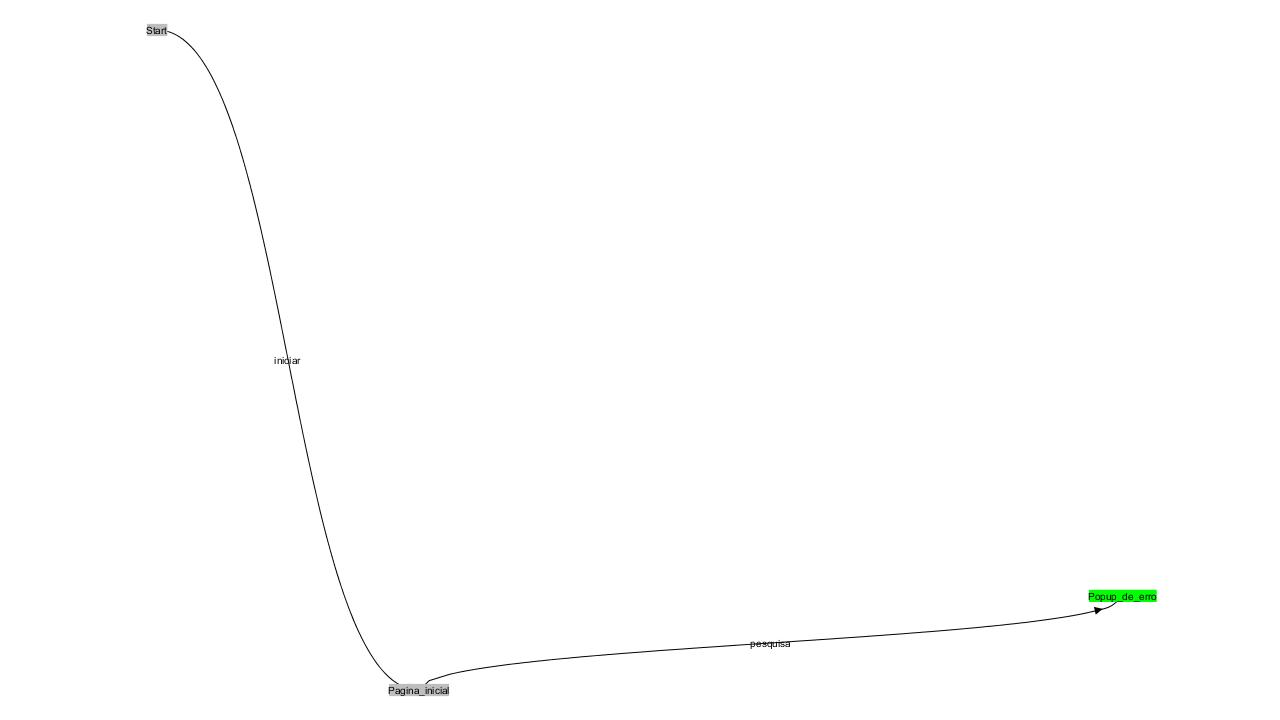
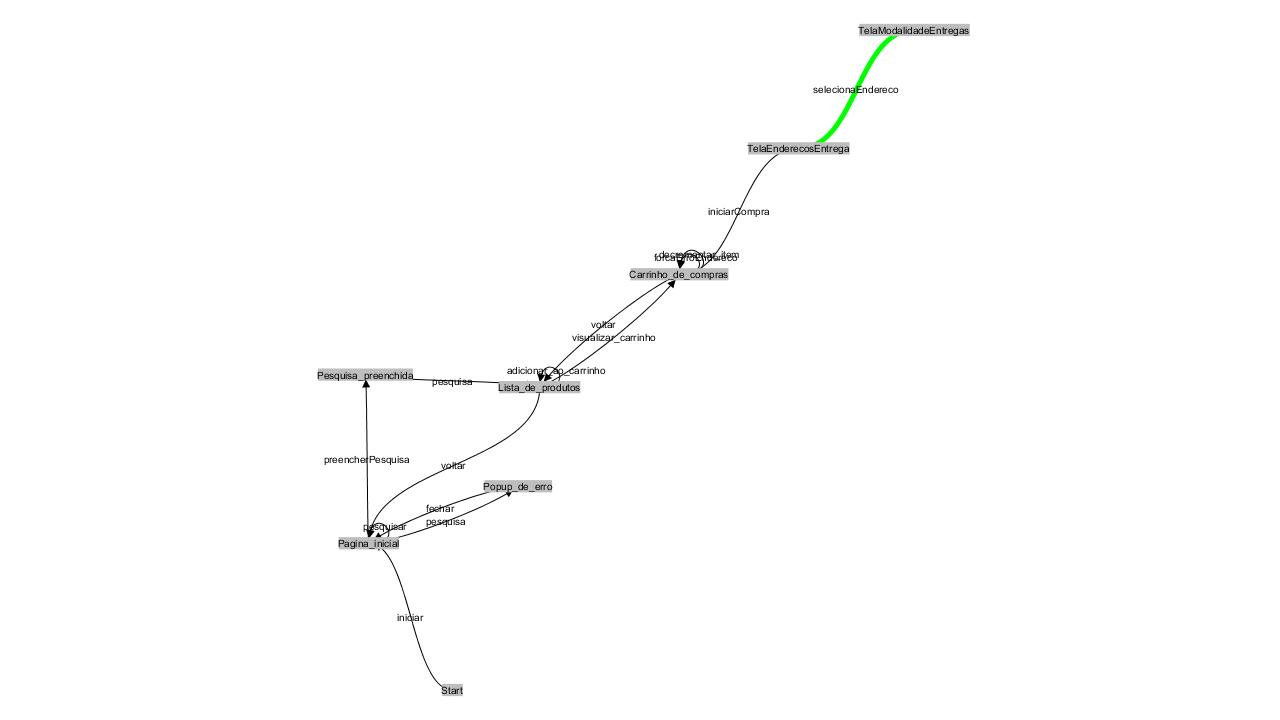
mais um pouco

diff --git a/src/main/java/br/com/unicamp/inf321/models/bookstore/BookstoreModel.java b/src/main/java/br/com/unicamp/inf321/models/bookstore/BookstoreModel.java
@@ -7,8 +7,10 @@ import java.util.Random;
 import org.assertj.core.api.AssertDelegateTarget;
 import org.graphwalker.java.annotation.GraphWalker;
 import org.openqa.selenium.By;
+import org.openqa.selenium.Dimension;
 import org.openqa.selenium.WebElement;
 import org.openqa.selenium.interactions.ClickAction;
+import org.openqa.selenium.interactions.touch.ScrollAction;
 import org.openqa.selenium.support.ui.ExpectedConditions;
 import org.openqa.selenium.support.ui.WebDriverWait;
 
@@ -40,84 +42,106 @@ public class BookstoreModel extends org.graphwalker.core.machine.ExecutionContex
 	@Override
 	public void iniciar() {	
 		driver.launchApp();	
+		wait.until(ExpectedConditions.elementToBeClickable(By.className("android.widget.Image")));
 	}
 
 	@Override
-	public void Pagina_inicial() {		
+	public void Pagina_inicial() {				
 	}
 
 	@Override
 	public void preencherPesquisa() {
-		String locator = "//*";
-		wait.until(ExpectedConditions.visibilityOfElementLocated(By.xpath(locator)));
-		
 		TouchAction touchAction = new TouchAction(driver);
-    	touchAction.tap(730, 298).perform();
+    	touchAction.tap(342, 372).perform();
 	}
 
 	@Override
 	public void Pesquisa_preenchida() {	
-		String locator = "//*";
-		wait.until(ExpectedConditions.visibilityOfElementLocated(By.xpath(locator)));
-		
 		TouchAction touchAction = new TouchAction(driver);
-		touchAction.tap(1723, 730).perform();
+		touchAction.tap(1727, 365).perform();
+	}
+
+	@Override
+	public void pesquisa() {	
+		TouchAction touchAction = new TouchAction(driver);
+    	touchAction.tap(342, 372).perform();
 	}
 
 	@Override
 	public void Popup_de_erro() {
-		
 		TouchAction touchAction = new TouchAction(driver);
-    	touchAction.tap(341, 1670).perform();
-    	
-		TouchAction touchAction2 = new TouchAction(driver);
-    	touchAction2.tap(353, 212).perform();
-	}
-
-	@Override
-	public void pesquisa() {
-		// TODO Auto-generated method stub
-		
+    	touchAction.tap(342, 372).perform();
 	}
 
 	@Override
 	public void Lista_de_produtos() {
 		TouchAction touchAction = new TouchAction(driver);
-    	touchAction.tap(1044, 1688).perform();
+    	touchAction.tap(238, 1033).perform();
 	}
 	
 	@Override
 	public void visualizar_carrinho() {
 		TouchAction touchAction = new TouchAction(driver);
-    	touchAction.tap(643, 895).perform();
+    	touchAction.tap(1246, 895).perform();
+	}
+
+	@Override
+	public void iniciarCompra() {
+		TouchAction touchAction = new TouchAction(driver);
+    	touchAction.tap(440, 904).perform();
+		
 	}
 
 	@Override
 	public void TelaEnderecosEntrega() {
 		TouchAction touchAction = new TouchAction(driver);
-    	touchAction.tap(1480, 899).perform();
+    	touchAction.tap(1250, 890).perform();
 	}
 
 	@Override
 	public void selecionaEndereco() {
-		// TODO Auto-generated method stub
+        new TouchAction(driver).press(0, 1000).waitAction(2000)
+            .moveTo(0, 100).release().perform().waitAction()
+            .tap(1625, 581).perform();
+	}
+
+	@Override
+	public void TelaModalidadeEntregas() {
+		TouchAction touchAction = new TouchAction(driver);
+    	touchAction.tap(200, 750).perform();
+	}
+
+	@Override
+	public void selecionaModalidade() {
+        new TouchAction(driver).press(0, 1000).waitAction(2000)
+        .moveTo(0, 100).release().perform().waitAction()
+        .tap(257, 432).perform();
+	}
+
+	@Override
+	public void Pgto_cartao_selecionado() {
 		
+	}
+
+	@Override
+	public void preencherDados() {
 	}
 
 	@Override
 	public void Dados_Preenchidos() {
-		// TODO Auto-generated method stub
-		
+		TouchAction touchAction = new TouchAction(driver);
+    	touchAction.tap(1517, 807).perform();
 	}
+
+	@Override
+	public void enviarDados() {
+		TouchAction touchAction = new TouchAction(driver);
+    	touchAction.tap(900, 805).perform();
+	}
+
 
 	@Override
 	public void enviarRetorno() {
-		// TODO Auto-generated method stub
-		
-	}
-
-	@Override
-	public void iniciarCompra() {
 		// TODO Auto-generated method stub
 		
 	}
@@ -153,12 +177,6 @@ public class BookstoreModel extends org.graphwalker.core.machine.ExecutionContex
 	}
 
 	@Override
-	public void preencherDados() {
-		// TODO Auto-generated method stub
-		
-	}
-
-	@Override
 	public void voltar() {
 		// TODO Auto-generated method stub
 		
@@ -177,19 +195,7 @@ public class BookstoreModel extends org.graphwalker.core.machine.ExecutionContex
 	}
 
 	@Override
-	public void Pgto_cartao_selecionado() {
-		// TODO Auto-generated method stub
-		
-	}
-
-	@Override
 	public void Pagamento_sucesso() {
-		// TODO Auto-generated method stub
-		
-	}
-
-	@Override
-	public void TelaModalidadeEntregas() {
 		// TODO Auto-generated method stub
 		
 	}
@@ -202,12 +208,6 @@ public class BookstoreModel extends org.graphwalker.core.machine.ExecutionContex
 
 	@Override
 	public void adicionar_ao_carrinho() {
-		// TODO Auto-generated method stub
-		
-	}
-
-	@Override
-	public void selecionaModalidade() {
 		// TODO Auto-generated method stub
 		
 	}
@@ -265,13 +265,7 @@ public class BookstoreModel extends org.graphwalker.core.machine.ExecutionContex
 		// TODO Auto-generated method stub
 		
 	}
-
-	@Override
-	public void enviarDados() {
-		// TODO Auto-generated method stub
-		
-	}
-
+	
 	@Override
 	public void TelaResultadoCompra() {
 		// TODO Auto-generated method stub
